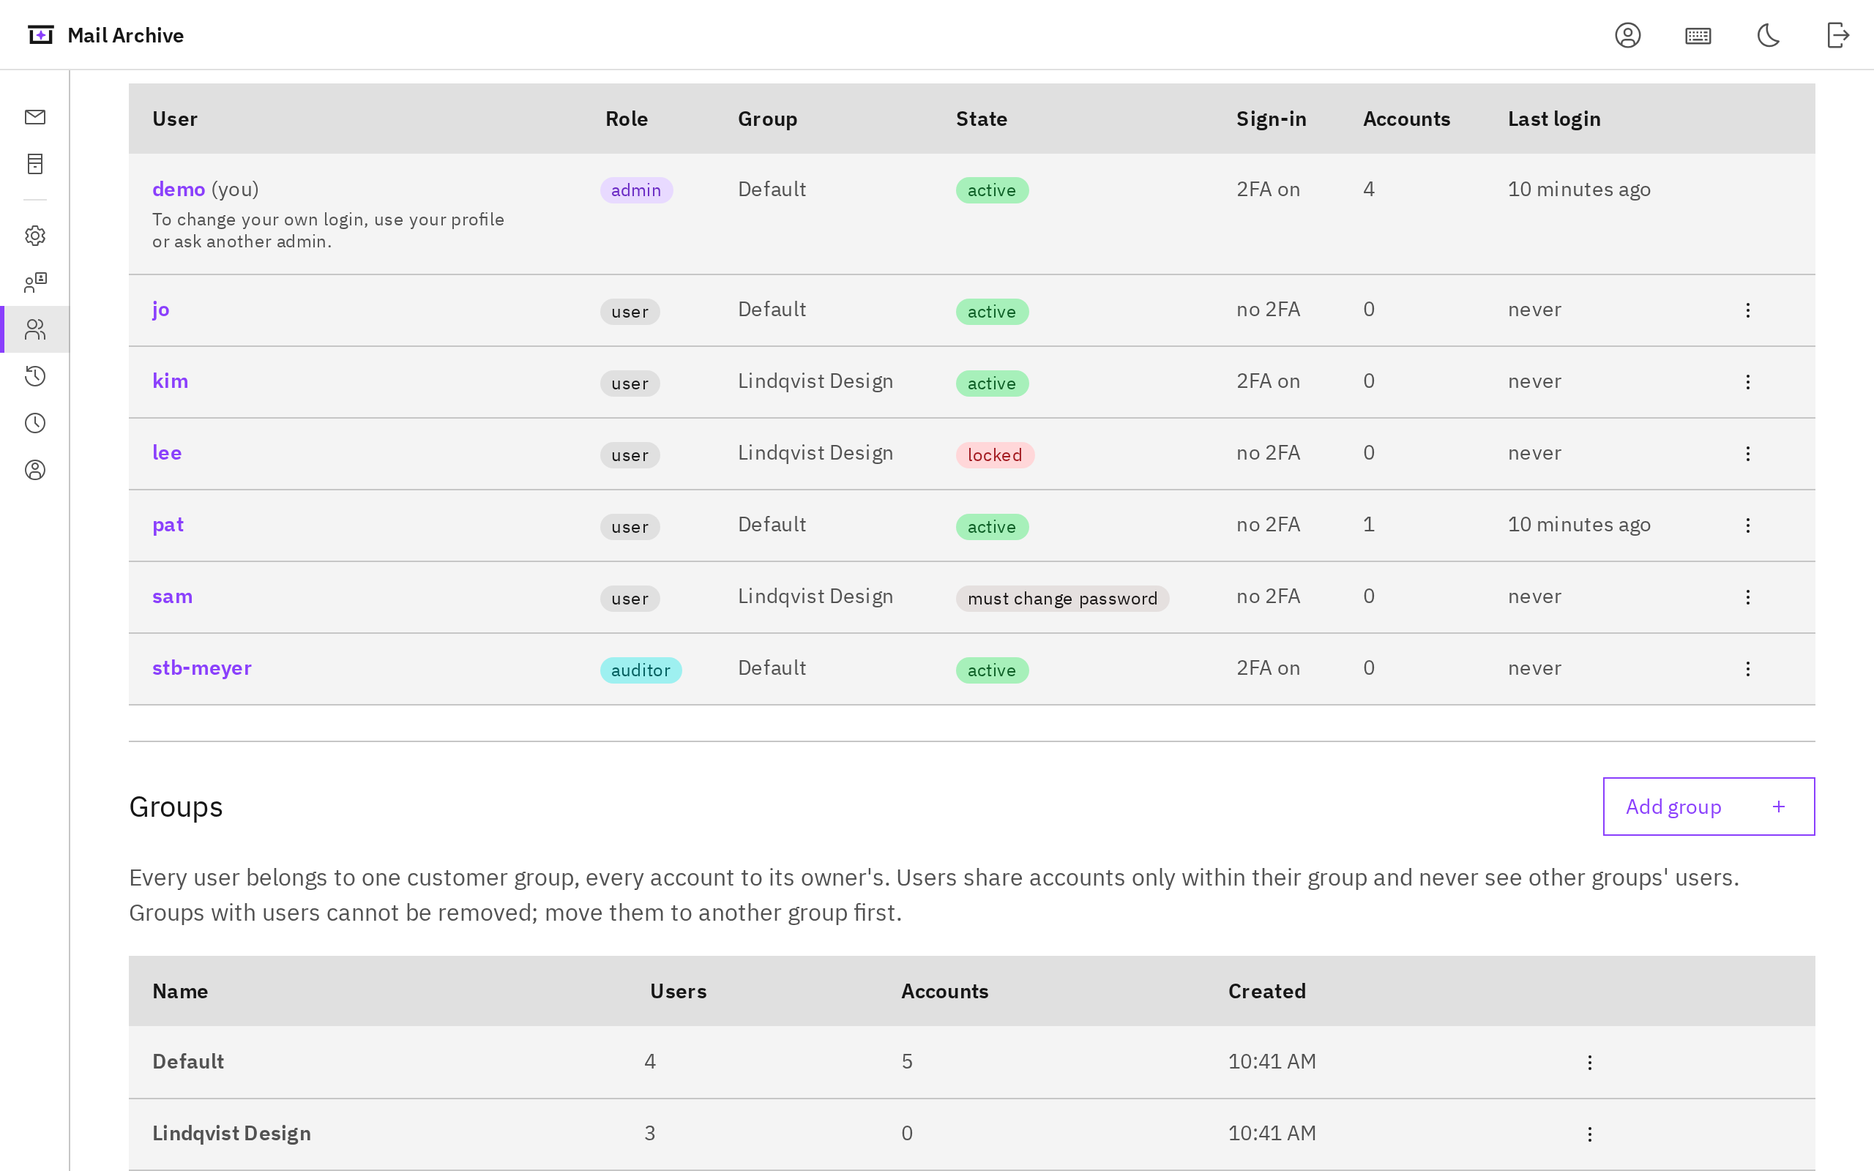
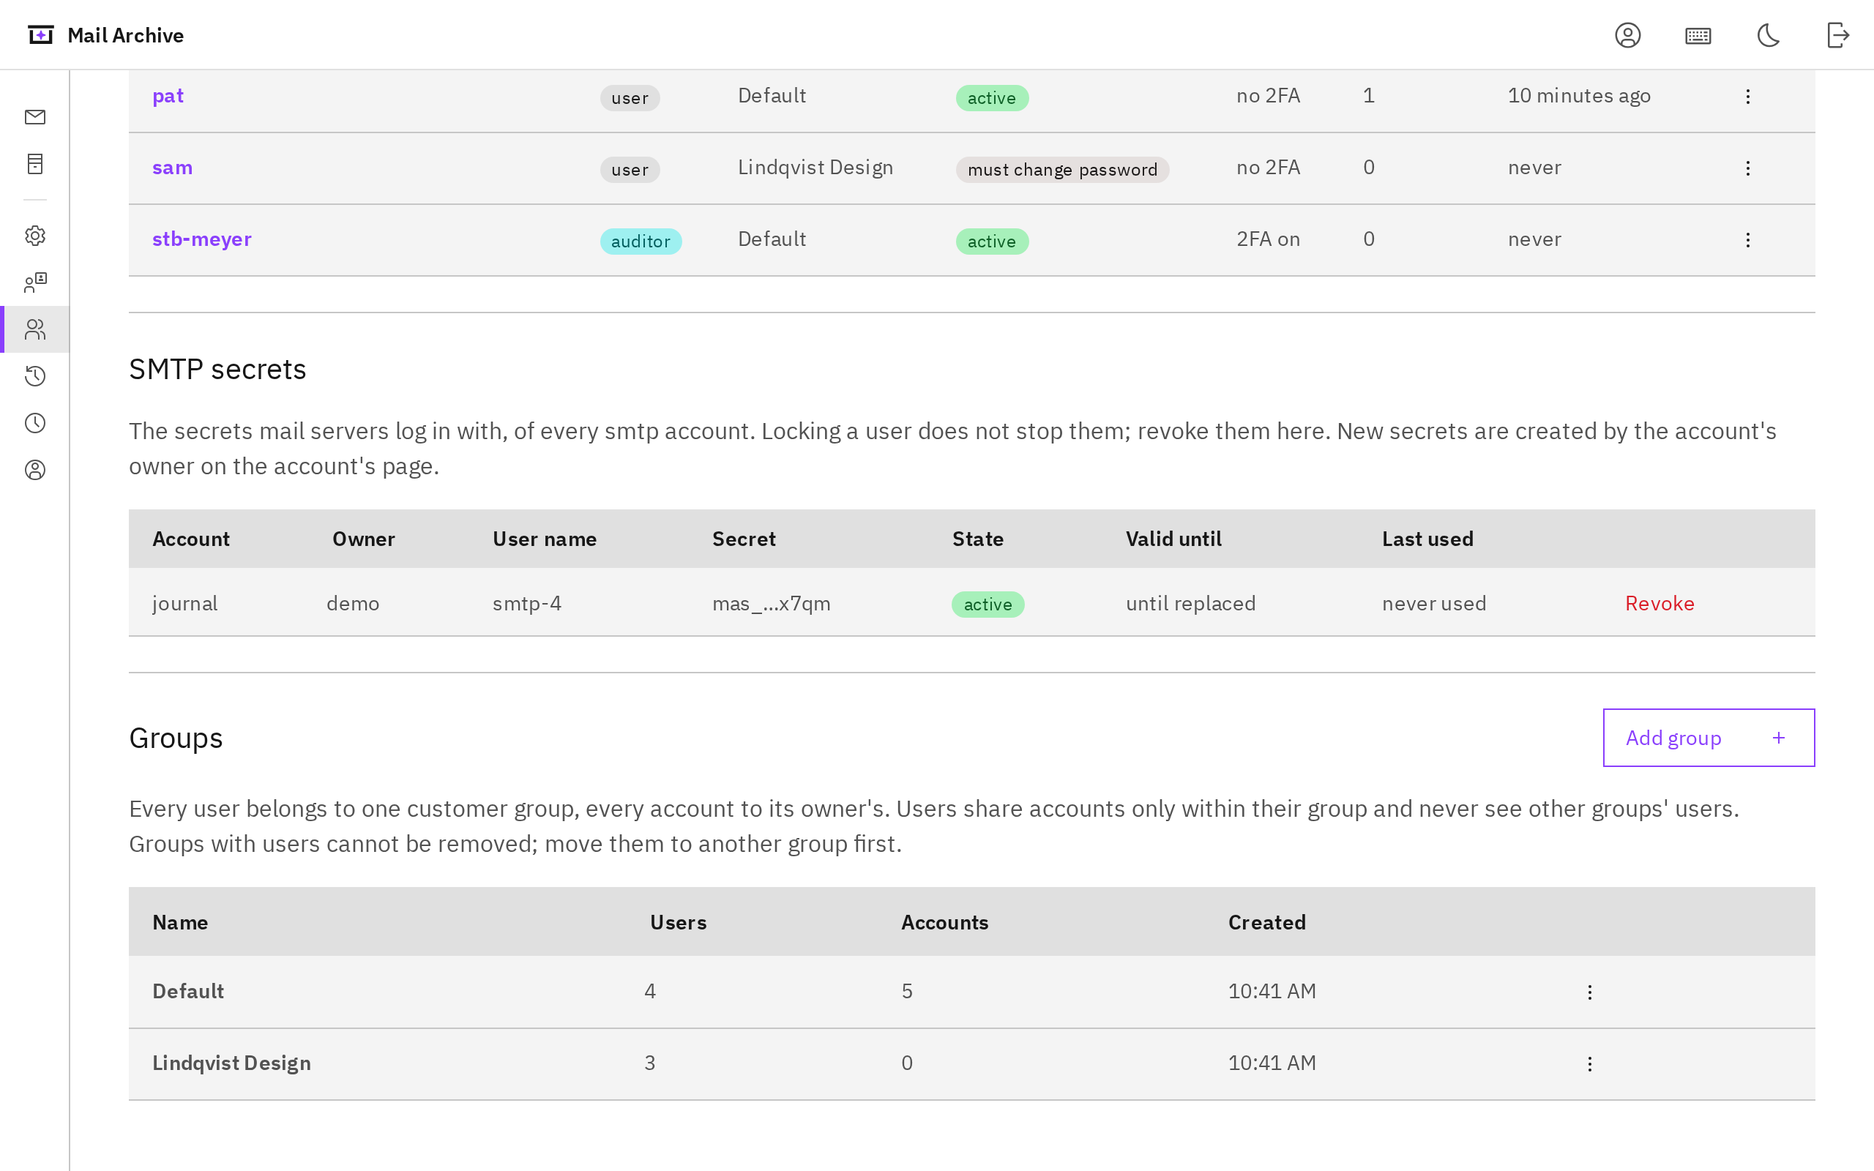
SMTP secrets: e2e test, screenshots and docs (#456)
- web/e2e/smtp-secrets.spec.ts: a fresh admin adds an smtp account,
  creates a secret with password and code, sees and copies it once, it is
  gone after Done and after a reload (page, URL, storage), the admins'
  list shows it, and it is revoked.
- accounts.spec.ts: the setup of the demo's journal logs in.
- Screenshots: new account-smtp and user-smtp-secrets; users and
  user-groups show the new section below the users table.
- Docs: accounts.md (SMTP secrets, setup lines by mode), users.md (lock
  hint, admins' list), journaling.md (web UI for the secret), web-ui.md,
  api.md (smtp.auth).

Claude-Session: https://claude.ai/code/session_016UE6pPPfyL8cPPhWKiHdJK

diff --git a/web/e2e/smtp-secrets.spec.ts b/web/e2e/smtp-secrets.spec.ts
@@ -1,0 +1,127 @@
+// SMTP secrets in the web UI (#395 part 3) against the demo server: a fresh
+// admin adds an smtp account, creates its secret with the password and a
+// code, sees it once (copy, then gone after Done and after a reload),
+// finds it in the admins' list on the Users page and revokes it.
+import type { APIRequestContext } from "@playwright/test";
+import { origin, timeStep, totp, unique } from "./demo";
+import { expect, test } from "./fixtures";
+import { adminState } from "./global-setup";
+
+const headers = { Origin: origin };
+
+// The test's own page signs in as the new admin; the demo admin acts
+// through a context of its own.
+test.use({ storageState: { cookies: [], origins: [] } });
+
+/** A new admin in the group Default, with its generated password. */
+async function newAdmin(admin: APIRequestContext): Promise<{ name: string; password: string }> {
+  const groups = (await (await admin.get("/api/groups")).json()) as { groups: { id: number; name: string }[] };
+  const group = groups.groups.find((g) => g.name === "Default")!;
+  const res = await admin.post("/api/users", { data: { name: unique("smtpadm"), admin: true, group: group.id }, headers });
+  expect(res.status(), await res.text()).toBe(201);
+  return (await res.json()) as { name: string; password: string };
+}
+
+test("an admin creates an SMTP secret, sees it once, and revokes it", async ({ page, browser, guards }) => {
+  // The login page asks for a session first: 401 while signed out.
+  guards.allowHTTPError("/api/session", 401);
+  const adminCtx = await browser.newContext({ baseURL: origin, storageState: adminState, locale: "en-US", timezoneId: "Europe/Berlin" });
+  try {
+    const user = await newAdmin(adminCtx.request);
+    const password = "a-new-admin-password-1";
+    const account = unique("journal");
+    const address = `archive@${account}.archive.local`;
+
+    // The first sign-in: an own password and the mandatory 2FA.
+    await page.goto("/");
+    await page.getByLabel("User name").fill(user.name);
+    await page.getByLabel("Password", { exact: true }).fill(user.password);
+    await page.getByRole("button", { name: "Log in" }).click();
+    await expect(page.getByRole("heading", { name: "Choose your own password" })).toBeVisible();
+    await page.getByLabel("Current password", { exact: true }).fill(user.password);
+    await page.getByLabel("New password", { exact: true }).fill(password);
+    await page.getByLabel("Repeat new password", { exact: true }).fill(password);
+    await page.getByRole("button", { name: "Change password" }).click();
+    await page.getByRole("button", { name: "Set up authenticator app" }).click();
+    const totpSecret = (await page.locator(".two-factor__key code").textContent())!.trim();
+    const setupStep = timeStep();
+    await page.getByLabel("Authentication code").fill(totp(totpSecret, setupStep));
+    await page.getByRole("button", { name: "Enable two-factor authentication" }).click();
+    await page.getByRole("button", { name: "I have saved the codes" }).click();
+
+    // A new smtp account: its setup logs in as its user name.
+    await page.goto("/?view=accounts&add=1");
+    const main = page.getByRole("main");
+    // Carbon's radio input is hidden behind its label.
+    await main.getByText("SMTP journaling: complete").click();
+    await expect(main.getByRole("radio", { name: /^SMTP journaling/ })).toBeChecked();
+    await main.getByLabel("Name", { exact: true }).fill(account);
+    await main.getByLabel("Addresses 1").fill(address);
+    await main.getByRole("button", { name: "Save" }).click();
+    const lines = main.getByRole("region", { name: "Mail server setup" });
+    const mapLine = lines.getByText(/\[archive\.customer\.example\]:587\s+smtp-\d+:mas_…/);
+    await expect(mapLine).toBeVisible();
+    const username = /(smtp-\d+):mas_…/.exec((await mapLine.textContent())!)![1]!;
+    await main.getByRole("button", { name: "Done" }).click();
+
+    // The account's page: no secret yet.
+    await page.goto(`/?view=accounts&id=${account}`);
+    const section = main.getByRole("region", { name: "SMTP secrets" });
+    await expect(section.getByText("No secret yet: a mail server cannot log in for this account.")).toBeVisible();
+    await expect(section.getByText(username, { exact: true })).toBeVisible();
+
+    // New secret: the password and a code of a later time step than the setup's.
+    await section.getByRole("button", { name: "New secret" }).click();
+    const dialog = page.getByRole("dialog", { name: `New SMTP secret for “${account}”` });
+    await dialog.getByLabel("Current password", { exact: true }).fill(password);
+    await dialog.getByLabel("Authentication code").fill(totp(totpSecret, Math.max(setupStep + 1, timeStep())));
+    await dialog.getByRole("button", { name: "Create secret" }).click();
+    await expect(dialog.getByText(/^Copy the secret now: it is shown only once\./)).toBeVisible();
+    const secretBox = dialog.getByLabel("Secret", { exact: true });
+    const secret = (await secretBox.locator("code").textContent())!.trim();
+    expect(secret).toMatch(/^mas_[a-z2-7]{52}$/);
+    await expect(dialog.getByText(`${username}:${secret}`)).toBeVisible();
+    await secretBox.getByRole("button", { name: "Copy to clipboard" }).click();
+    await expect(secretBox.getByText("Copied", { exact: true })).toBeVisible();
+    // Behind the dialog the list has it, by its last four characters only.
+    await expect(section.getByRole("cell", { name: `mas_…${secret.slice(-4)}`, exact: true })).toBeAttached();
+
+    await dialog.getByRole("button", { name: "Done" }).click();
+    await expect(dialog).toBeHidden();
+    const noSecret = async () => {
+      expect(await page.content()).not.toContain(secret);
+      expect(page.url()).not.toContain(secret);
+      const stored = await page.evaluate(() =>
+        [localStorage, sessionStorage].flatMap((s) => Object.keys(s).map((k) => `${k}=${s.getItem(k) ?? ""}`)).join("\n"),
+      );
+      expect(stored).not.toContain(secret);
+    };
+    const row = section.getByRole("row").filter({ hasText: `mas_…${secret.slice(-4)}` });
+    await expect(row.getByText("active", { exact: true })).toBeVisible();
+    await noSecret();
+    await page.reload();
+    await expect(row.getByText("active", { exact: true })).toBeVisible();
+    await noSecret();
+
+    // The demo admin's list on the Users page has it, with its account and owner.
+    const users = await adminCtx.newPage();
+    await users.goto("/?view=users");
+    const all = users.getByRole("main").getByRole("region", { name: "SMTP secrets" });
+    const listed = all.getByRole("row").filter({ hasText: account });
+    await expect(listed.getByRole("cell", { name: user.name, exact: true })).toBeVisible();
+    await expect(listed.getByRole("cell", { name: username, exact: true })).toBeVisible();
+
+    // Revoke on the account's page, after asking.
+    await row.getByRole("button", { name: `Revoke mas_…${secret.slice(-4)}` }).click();
+    const ask = page.getByRole("dialog", { name: `Revoke the SMTP secret mas_…${secret.slice(-4)}?` });
+    await ask.getByRole("button", { name: "Revoke" }).click();
+    await expect(section.getByText(`The SMTP secret mas_…${secret.slice(-4)} is revoked.`)).toBeVisible();
+    await expect(row.getByText("revoked", { exact: true })).toBeVisible();
+    await expect(section.getByRole("heading", { name: "SMTP secrets", level: 2 })).toBeFocused();
+    await users.reload();
+    await expect(listed.getByText("revoked", { exact: true })).toBeVisible();
+    await expect(listed.getByRole("button", { name: /^Revoke/ })).toHaveCount(0);
+  } finally {
+    await adminCtx.close();
+  }
+});

diff --git a/web/e2e/accounts.spec.ts b/web/e2e/accounts.spec.ts
@@ -178,7 +178,11 @@ test("the smtp account's page: the mail server setup from the row's menu, and th
   // The focus goes to that section, not to the page's h1.
   const setup = main.getByRole("heading", { name: "Mail server setup", level: 2 });
   await expect(setup).toBeFocused();
-  await expect(main.getByRole("region", { name: "Mail server setup" }).getByText(/^Postfix, recipient_bcc_maps/)).toBeVisible();
+  // The demo's SMTP server wants a login (#395): the lines log in as the
+  // account's user name, with a placeholder for the secret.
+  const lines = main.getByRole("region", { name: "Mail server setup" });
+  await expect(lines.getByText(/^Postfix with a login over TLS, recipient_bcc_maps/)).toBeVisible();
+  await expect(lines.getByText(/\[archive\.customer\.example\]:587\s+smtp-\d+:mas_…/)).toBeVisible();
   const imports = main.getByRole("region", { name: "Imports from IMAP" });
   await imports.getByRole("button", { name: "Import existing mail from IMAP" }).click();
   await expect(page).toHaveURL(/\?view=accounts&import=journal$/);

diff --git a/docs/reference/api.md b/docs/reference/api.md
@@ -295,7 +295,7 @@ counted, in conversations, grouped rows and `thread=` alike.
 
 | Endpoint | Description |
 |---|---|
-| `GET /api/accounts` | All accounts with `kind` (`imap`, `import` for mail imported from files, or `smtp` for mail a mail server delivers over SMTP), server settings (never the password), folders with message counts and the hierarchy `delimiter` (`/` or `.` as the IMAP server reports it, `""` if it has none, `null` until the folder's first sync after the upgrade; always `/` for import and smtp accounts), and the sync state. Import and smtp accounts have an empty `host`, `tls` and `username` and `port` 0; import accounts have `enabled` false. smtp accounts list their `addresses` and `lastReceivedAt`, when they last accepted a message (`null` before the first); other kinds have `[]` and `null`. The response's `smtp` is `{}` when the SMTP server is on and `null` when `MAIL_ARCHIVE_SMTP_LISTEN` is empty. smtp accounts also have `fill`, their latest [fill](#fills) (`null` without one), `fills`, their recurring fills and the latest one, and `firstReceived`, the first message they received that is still stored (`{"at", "subject"}`, `null` without one); other kinds have `null`, `[]` and `null`. `purging` is `true` while a removed account is being [deleted completely](../guide/accounts#deleting-a-removed-account-completely), and `purge` then has the progress (`{"id", "expected", "locations", "deleted", "kept"}`; `null` otherwise). `sharedWith` lists the users an account is [shared](#shared-accounts) with (`[{"user", "since"}]`). The response's `shared` lists the accounts other users shared with the user: `key` (`owner/name`), `name`, `owner`, `kind`, `enabled`, `removed` and `folders` (with counts, `lastSyncedAt` and `lastReconciledAt`), nothing else: no server, login, sync errors or sync health. |
+| `GET /api/accounts` | All accounts with `kind` (`imap`, `import` for mail imported from files, or `smtp` for mail a mail server delivers over SMTP), server settings (never the password), folders with message counts and the hierarchy `delimiter` (`/` or `.` as the IMAP server reports it, `""` if it has none, `null` until the folder's first sync after the upgrade; always `/` for import and smtp accounts), and the sync state. Import and smtp accounts have an empty `host`, `tls` and `username` and `port` 0; import accounts have `enabled` false. smtp accounts list their `addresses` and `lastReceivedAt`, when they last accepted a message (`null` before the first); other kinds have `[]` and `null`. The response's `smtp` is `null` when `MAIL_ARCHIVE_SMTP_LISTEN` is empty; when the SMTP server is on it is `{"auth"}`, the mode of `MAIL_ARCHIVE_SMTP_AUTH`: `required` (mail servers log in with an [SMTP secret](#smtp-secrets)) or `off`. smtp accounts also have `fill`, their latest [fill](#fills) (`null` without one), `fills`, their recurring fills and the latest one, and `firstReceived`, the first message they received that is still stored (`{"at", "subject"}`, `null` without one); other kinds have `null`, `[]` and `null`. `purging` is `true` while a removed account is being [deleted completely](../guide/accounts#deleting-a-removed-account-completely), and `purge` then has the progress (`{"id", "expected", "locations", "deleted", "kept"}`; `null` otherwise). `sharedWith` lists the users an account is [shared](#shared-accounts) with (`[{"user", "since"}]`). The response's `shared` lists the accounts other users shared with the user: `key` (`owner/name`), `name`, `owner`, `kind`, `enabled`, `removed` and `folders` (with counts, `lastSyncedAt` and `lastReconciledAt`), nothing else: no server, login, sync errors or sync health. |
 | `POST /api/accounts` | Add an account. The login is checked first; the first sync starts right away. With `{"kind": "smtp", "name": "journal", "addresses": ["archive@archive.local"]}` (admins only, otherwise `403`) it adds an smtp account: no server fields, no login check; `409` names an address another account receives for. |
 | `PATCH /api/accounts/{name}` | Change some fields, including `name` to rename the account. `addresses` replaces an smtp account's list (admins only; `409` on other kinds). A new connection or password is checked with a login first; if that fails, nothing changes. All fields are saved together or not at all. `409` when the name is taken or when the account was changed since it was loaded (reload and try again). Works while the account is being synced; the change applies from the next sync. |
 | `DELETE /api/accounts/{name}` | Remove the account. Returns `{"result": "removed"}` if archived mail was kept, `{"result": "deleted"}` if the account had none. `409` while the account is being synced or filled. |

diff --git a/docs/guide/accounts.md b/docs/guide/accounts.md
@@ -126,11 +126,37 @@ last message received; import: the last import).
 
 Then come the sections. IMAP: **Connection** (name, server, security, port,
 user name), **Schedule** and **Folders**. smtp: **Connection** (name and
-addresses), **Mail server setup** and *Imports from IMAP*. Import: its
-folders. Each section has its own **Edit**, which opens its form in place,
+addresses), **SMTP secrets** (admins), **Mail server setup** and *Imports
+from IMAP*. Import: its folders. Each section has its own **Edit**, which opens its form in place,
 with **Save** and **Cancel**; saving one section sends only its own fields
 and keeps what you typed in the others. Without `MAIL_ARCHIVE_SECRET_KEY`
 the page only shows the account.
+
+**SMTP secrets** is where the mail server's login comes from
+(`MAIL_ARCHIVE_SMTP_AUTH=required`, the default; see
+[Log in with an SMTP secret](./journaling#log-in-with-an-smtp-secret)). The
+account's owner, who is an admin, sees the user name (`smtp-` and the
+account's ID) and the secrets: the last four characters (`mas_…x7qm`), the
+state (*active*, *expiring*, *expired*, *revoked*), when each was created,
+until when it is valid and when it was last used. **New secret** asks for
+your password, and with 2FA on a code, and for how long the current secret
+stays valid (7 days by default; *No, revoke it at once*, or up to 30 days).
+The dialog then shows the user name, the secret and the line for Postfix's
+password map, each with a copy button. The secret is shown only there and
+only once: closing the dialog removes it, and neither the page nor a reload
+shows it again. **Revoke** ends a secret at once, after asking; the mail
+server's next message is refused and stays in its queue. With
+`MAIL_ARCHIVE_SMTP_AUTH=off` the section says that mail servers need no
+secret.
+
+**Mail server setup** shows the Postfix lines filled in with the account's
+address. With logins (`required`) they add the archive's own transport and
+the password map line with the account's user name; put the secret in place
+of `mas_…` and the name and port of the archive's SMTP server in place of
+`[archive.customer.example]:587`. With `off` they send to
+`[127.0.0.1]:2525`, the guide's local default.
+
+![The page of the smtp account journal: Connection, SMTP secrets with one active secret, and the Mail server setup with the login lines](/screenshots/account-smtp.png)
 
 The last section, **Shared with** (not for smtp accounts), lists the users
 who may read the account's mail, each with the day it was shared and

diff --git a/docs/guide/users.md b/docs/guide/users.md
@@ -150,7 +150,10 @@ first. Admins can:
 - **API keys:** the user's page lists their keys; **Revoke** stops one at
   once, after asking. This also works for your own keys, on your own page.
 - **Lock / Unlock:** a locked user is logged out at once and cannot log in;
-  their API keys stop working until they are unlocked.
+  their API keys stop working until they are unlocked. The SMTP secrets of
+  smtp accounts the user owns keep working, so that journaling goes on: if
+  any are usable, the page says how many, with a link to **SMTP secrets**
+  below the users table, where you can revoke them.
 - **Make admin / Remove admin:** not for auditors, whose role never changes.
 - **Change group:** with two or more [customer groups](#customer-groups);
   ends the shares and [auditor grants](#auditor-access) that would cross
@@ -162,6 +165,16 @@ first. Admins can:
   with the removed user end; a new user with the same name gets none of them.
   Removing an auditor ends its grants first, as the dialog says; the page
   then names them, and they stay in their owners' lists as history.
+
+**SMTP secrets** below the users table lists the secrets mail servers log
+in with, of every smtp account (only while there are any): account, owner,
+user name, the last four characters, state, until when it is valid and last
+use, with **Revoke** for each that still works. Only the account's owner
+creates new ones, on the account's page
+([SMTP secrets](./accounts#the-account-s-page)); here an admin can end any of
+them, for example after locking their owner.
+
+![SMTP secrets on the Users page](/screenshots/user-smtp-secrets.png)
 
 A user whose accounts keep failing to sync is marked with the number of
 those accounts, so you can tell them.

diff --git a/docs/guide/journaling.md b/docs/guide/journaling.md
@@ -84,7 +84,9 @@ message.
    ```
 
    The web UI then shows the Postfix lines below, filled in with the
-   address; the account's page repeats them under **Mail server setup**
+   address (with logins, those of
+   [Log in with an SMTP secret](#log-in-with-an-smtp-secret), with the
+   account's user name); the account's page repeats them under **Mail server setup**
    (also in its row menu on the Accounts page). It only routes a domain that
    looks like the archive's alone (`archive.local`, or a name ending in
    `.local`, `.internal`, `.test` or `.invalid`). For an address like
@@ -100,7 +102,12 @@ message.
    `account smtp-addresses journal --add ADDRESS`.
 
 3. **The operator** creates the secret the mail server logs in with (not
-   needed with `off`):
+   needed with `off`). In the web UI, on the account's page under
+   **SMTP secrets**: **New secret**, with your password (and a code with
+   2FA). The dialog shows the user name, the secret and the password map
+   line once, each with a copy button; the account's **Mail server setup**
+   then has the login lines with the user name filled in. On the command
+   line:
 
    ```sh
    ./ma account smtp-secret journal --new
@@ -111,7 +118,10 @@ message.
    ([Log in with an SMTP secret](#log-in-with-an-smtp-secret)). Hand them to
    whoever runs the mail server over a safe channel. See
    [SMTP secrets](../reference/cli#smtp-secrets) for new secrets and
-   revoking.
+   revoking, and [The account's page](./accounts#the-account-s-page) for the
+   web UI. Any admin can revoke any account's secrets on the Users page,
+   for example after locking the owner
+   ([Managing users](./users#managing-users)).
 
 ### Who may connect
 

diff --git a/docs/guide/web-ui.md b/docs/guide/web-ui.md
@@ -24,7 +24,8 @@ The navigation on the left lists **All mail**, **Only in archive** (once
 there is such mail), [Accounts](./accounts), **Log** (your
 [audit log](./audit-log)) and **Profile**; admins also find [Users](./users)
 (with the [customer groups](./users#customer-groups) once there are two or
-more) and [Retention](./retention) there and see everyone's log entries. On a
+more, and the [SMTP secrets](./users#managing-users) of every smtp account
+once there are any) and [Retention](./retention) there and see everyone's log entries. On a
 large screen the navigation is a narrow column of icons that shows its
 labels on hover or focus.
 
